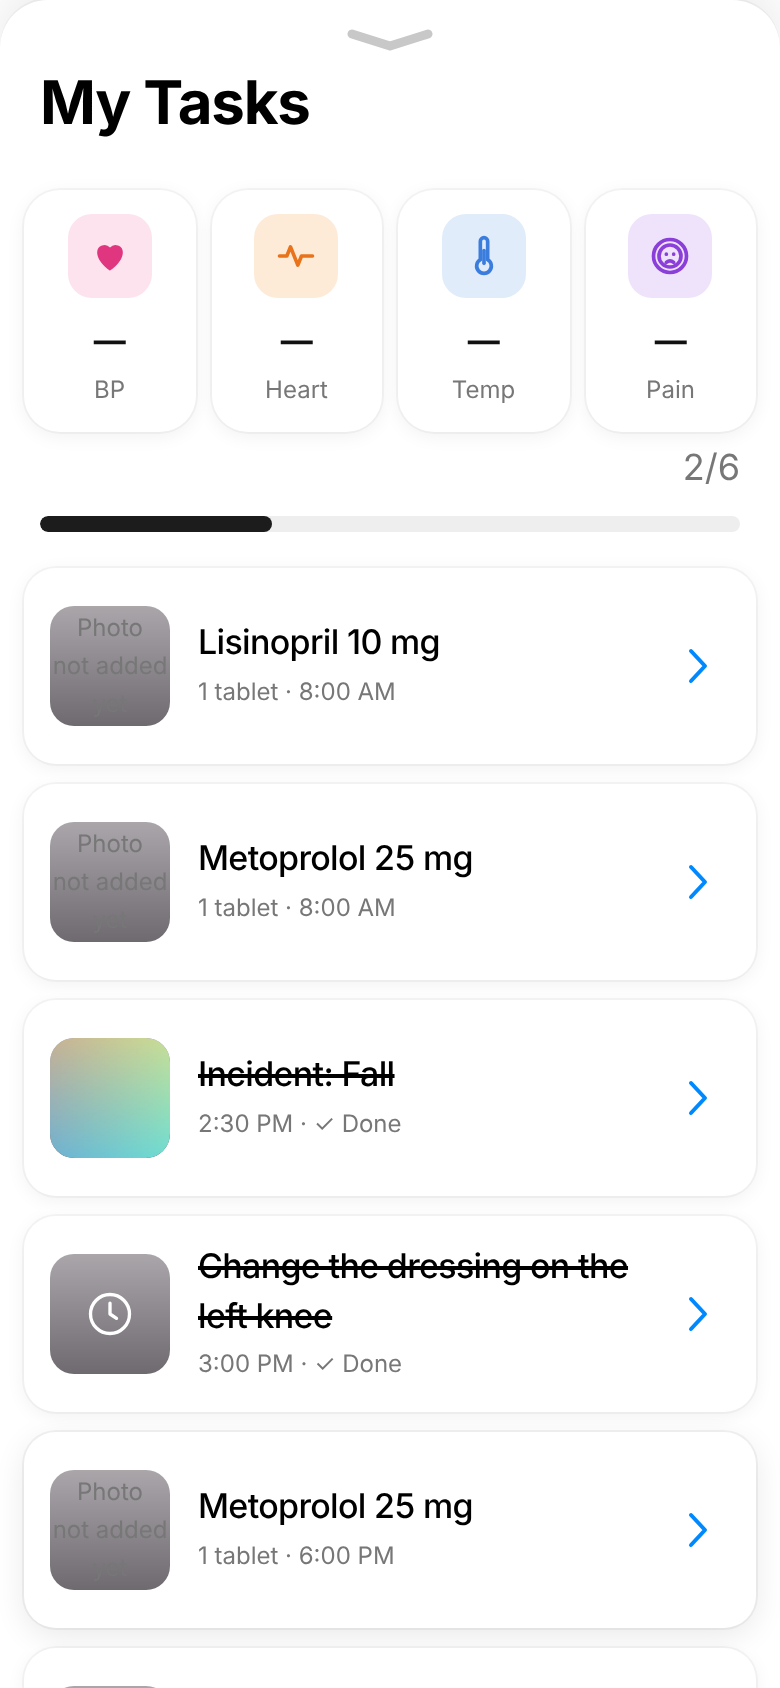
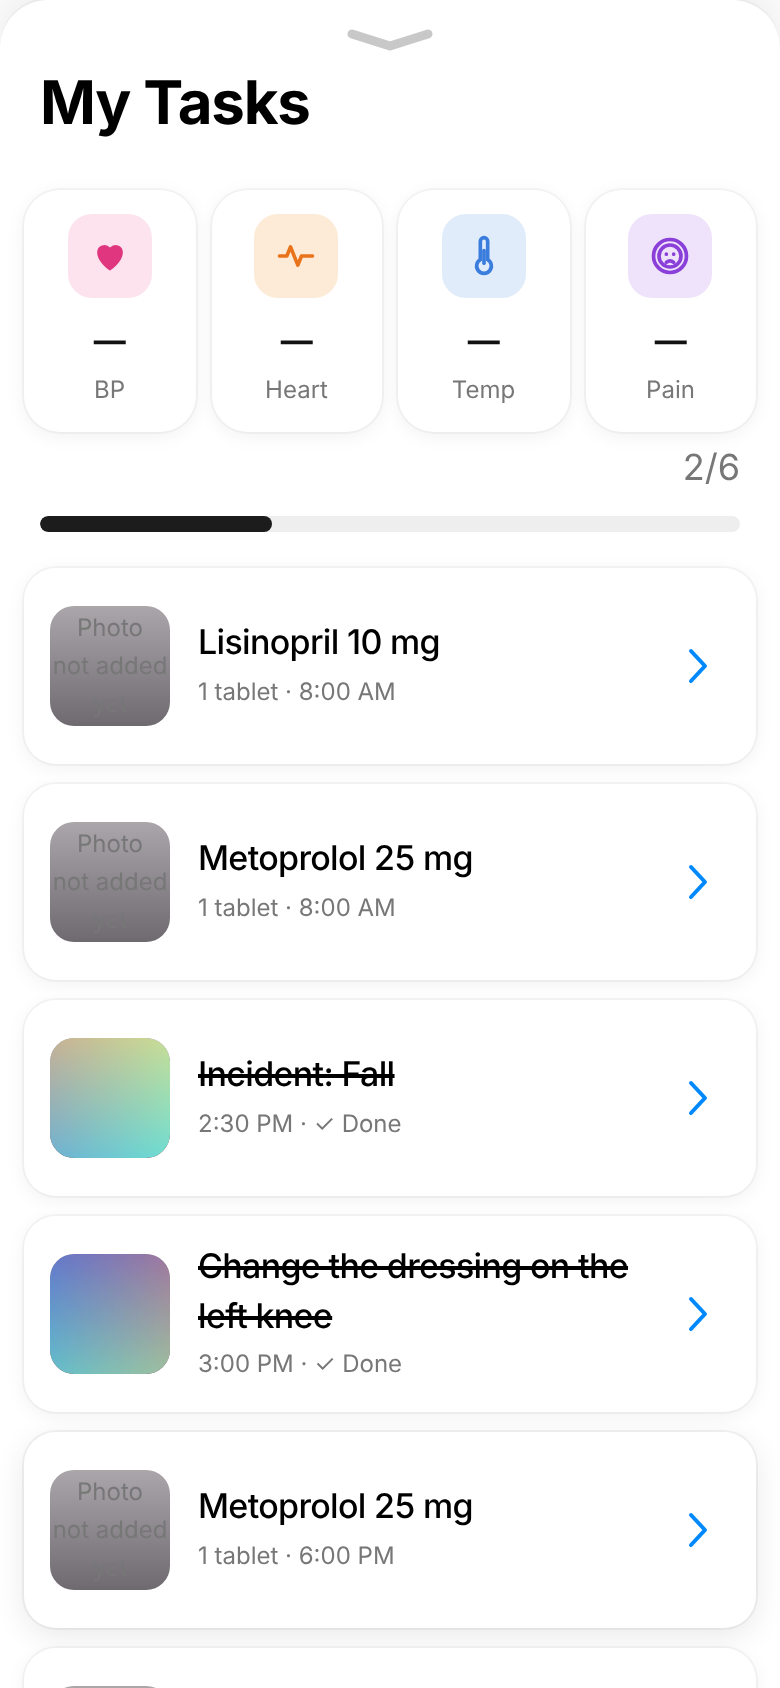
Step 5: a done task shows its first photo in My Tasks
George asked that the photo uploaded when a task is done becomes its
picture in My Tasks, using the first one. Incidents already show their
first photo.

Claude-Session: https://claude.ai/code/session_01E2FP2TgKsd54SUu6FZRJ73

Changed region(s): [[0.0615, 0.7393, 0.2154, 0.8318]]

diff --git a/home.js b/home.js
@@ -44,7 +44,7 @@ function helpNote(i,phone){const doc=i.prescriber||{},ph=i.pharmacy||{};return `
 function whenToCallHTML(){const groups=whenToCall();return `<h2 class="call-head">When to call</h2>${groups.length?`<ol class="radar-list call-list">${groups.map(g=>`<li><strong>${esc(g.head)}</strong>${g.signs.map(t=>`<small>${esc(t)}</small>`).join('')}<small>${callLinks(g)}</small></li>`).join('')}</ol>`:`<p class="today-empty">${esc(NO_SIGNS)}</p><ol class="radar-list call-list"><li><small>${call911}</small></li></ol>`}`}
 /* One card per row, like a list of locks: the bottle's photo, the medication and its dose, and Start at the end. The whole card
    opens the Take page (today.js); a visit opens its own card. Refill steps and pick-ups live on Your refills, not here. */
-function todayThumb(x){if(x.item.appt)return apptPhoto(x.item);if(x.key==='task'||x.key==='incident')return taskPhoto(x.item);return x.slot||x.key==='pickup'||x.key.startsWith('refill:')?medPhoto(x.item):`<div class="product-photo today-icon">${icon('clock')}</div>`}
+function todayThumb(x){if(x.item.appt)return apptPhoto(x.item);if(x.key==='task'||x.key==='incident')return taskPhoto(x.item,x.key==='task'?markOf(x.item,today(),'task'):null);return x.slot||x.key==='pickup'||x.key.startsWith('refill:')?medPhoto(x.item):`<div class="product-photo today-icon">${icon('clock')}</div>`}
 /* No Start button: a blue arrow at the end, like a list of rows. A marked dose says so on its second line. */
 const TODAY_ARROW='<svg class="today-arrow" viewBox="0 0 10 18" aria-hidden="true"><path d="m1.5 1.5 7 7.5-7 7.5"/></svg>';
 function todayRow(x){const mark=x.state==='done'?'✓ Done':x.state==='skipped'?'Skipped':'',line=[x.slot?x.item.dose:'',x.time?clockText(x.time):'',mark].filter(Boolean).join(' · ');

diff --git a/plus.js b/plus.js
@@ -33,8 +33,9 @@ todayTasks=function(list=items,day=today()){const tasks=todayTasksBeforePlus(lis
 for(const t of list.filter(i=>i.task&&taskOn(i,day))){const m=markOf(t,day,'task');tasks.push({item:t,key:'task',time:t.time||'',title:t.name,sub:t.note||'',state:m?m.kind:''})}
 for(const i of list.filter(i=>i.incident&&onDay(i.at,day)))tasks.push({item:i,key:'incident',time:clockOf(i.at),title:'Incident: '+i.name,sub:i.note||'',state:'done'});
 return tasks.sort((a,b)=>(a.time||'99')<(b.time||'99')?-1:(a.time||'99')>(b.time||'99')?1:0)};
-/* A task's photo on its card and Take page, or the clock when it has none. */
-const taskPhoto=i=>i.photos&&i.photos.length?`<div class="product-photo">${proofImg(i.photos[0])}</div>`:`<div class="product-photo today-icon">${icon('clock')}</div>`;
+/* A task's photo on its card and Take page: once it's done, the first photo taken then; otherwise its own (an incident's is
+   the one uploaded with the report), or the clock when there's none. */
+const taskPhoto=(i,mark)=>{const src=(mark&&mark.photos||[])[0]||(i.photos||[])[0];return src?`<div class="product-photo">${proofImg(src)}</div>`:`<div class="product-photo today-icon">${icon('clock')}</div>`};
 
 /* The Take page for a task: its photo, what to do with its note and photos, then the same photo, note and Done, Skipped, Need help. */
 function taskTakePage(x,d,full){const i=x.item;
